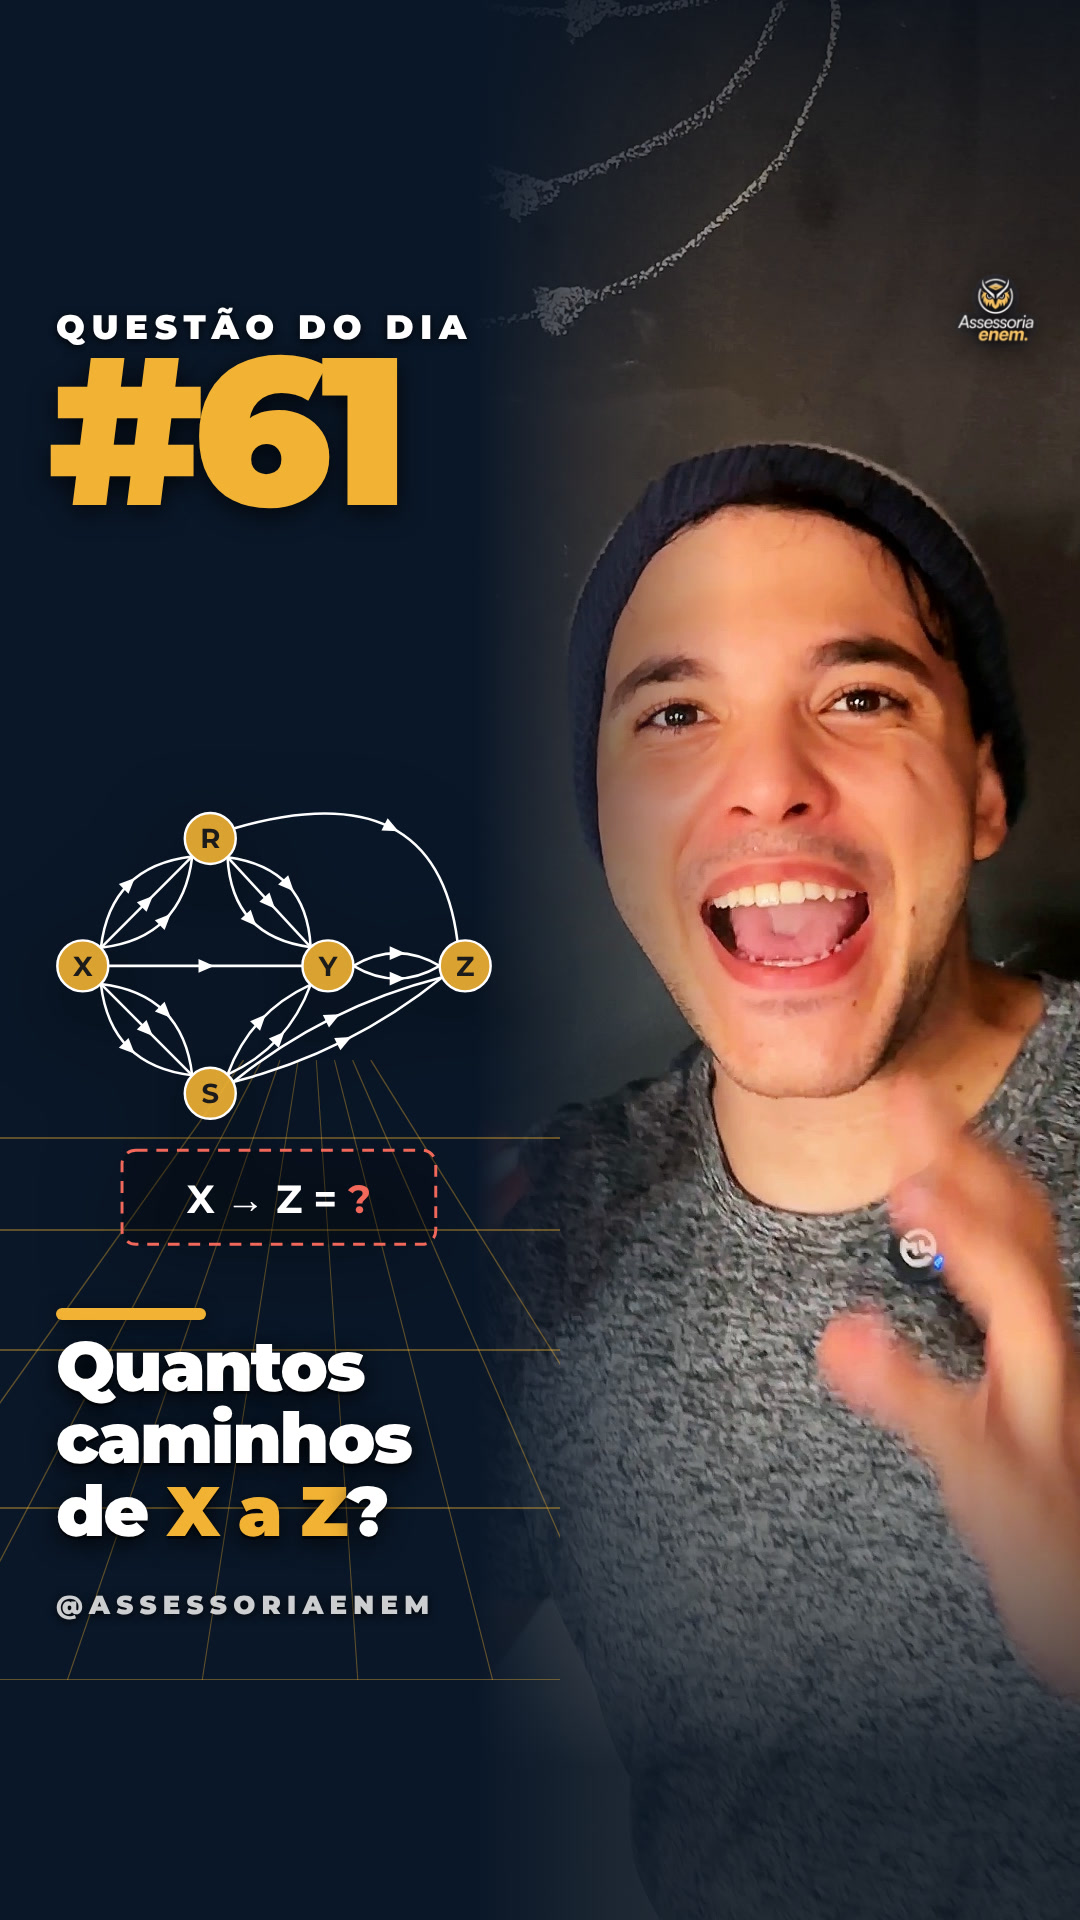
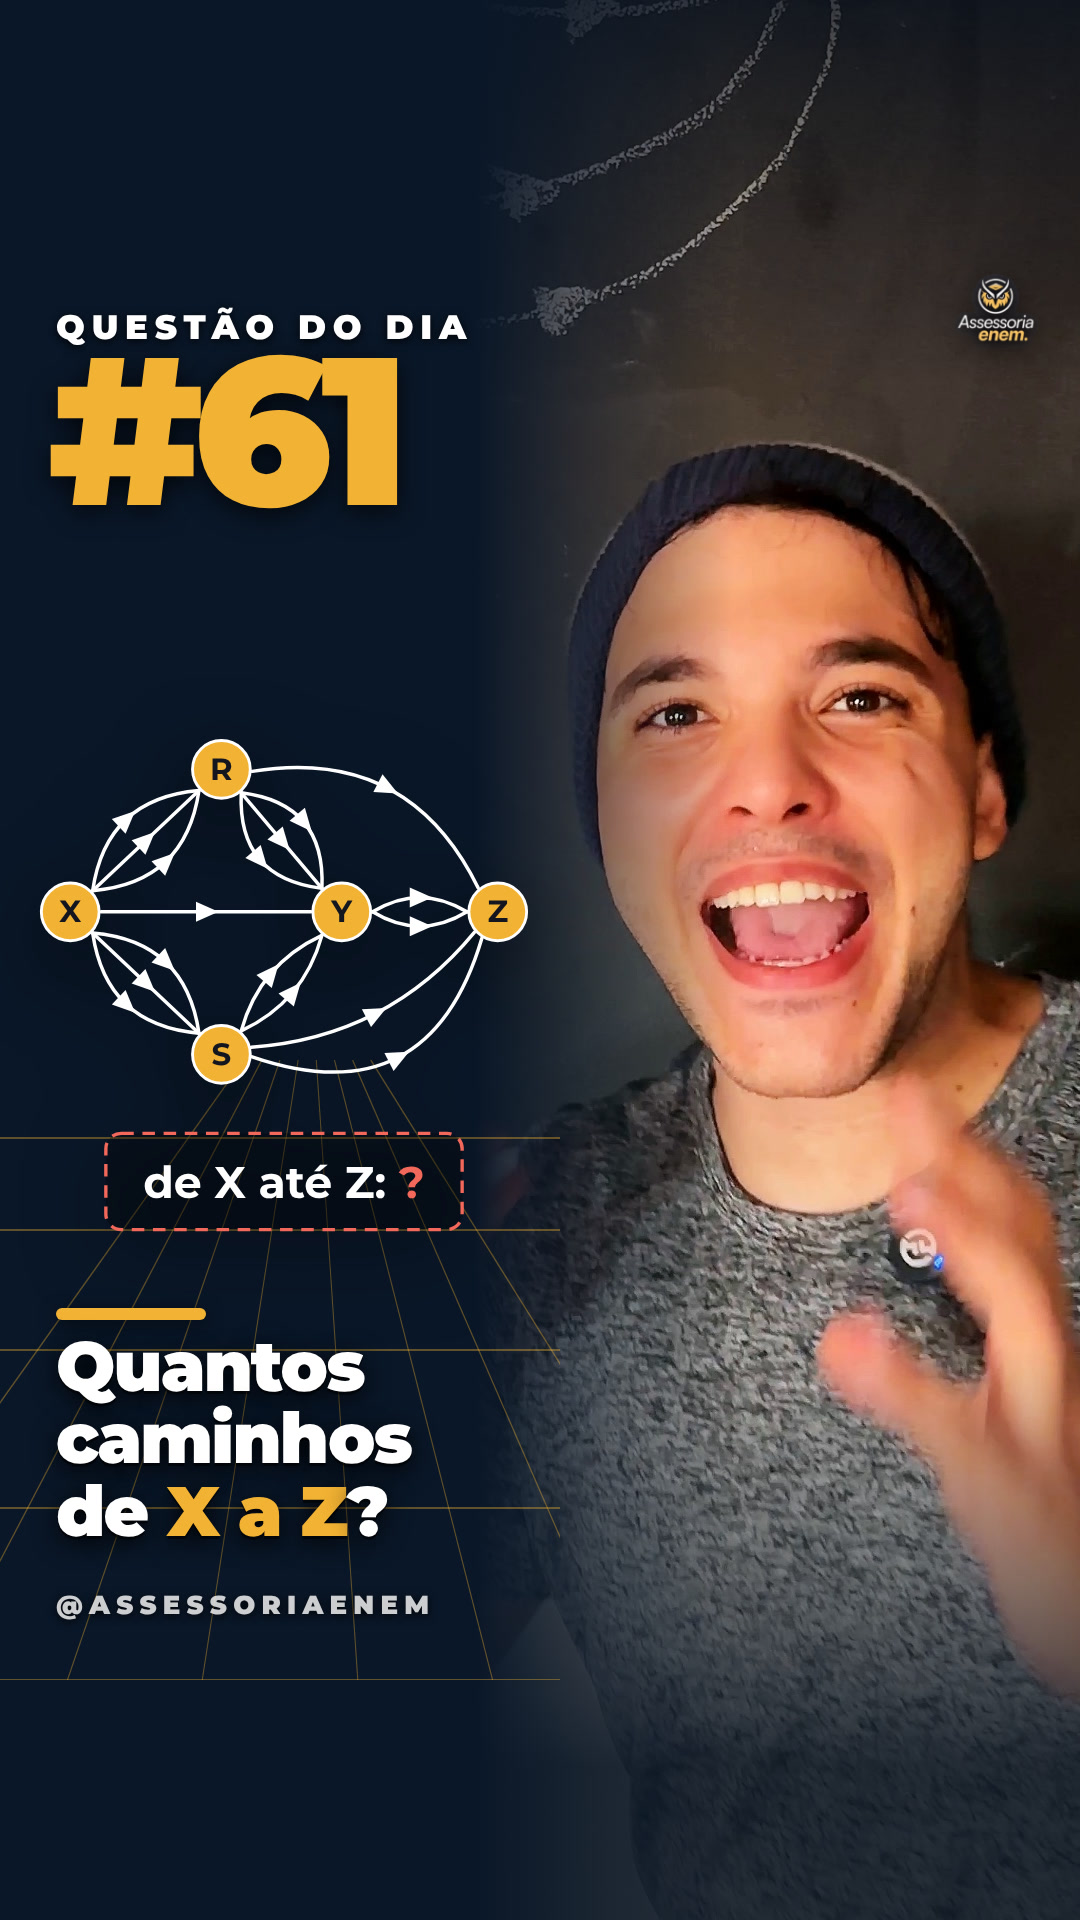
Questão do Dia #61: diagrama refeito na capa e no card
Claude-Session: https://claude.ai/code/session_01GgpLLMxp2kmphHyYTqX5f3

Changed region(s): [[0.0306, 0.375, 0.4889, 0.6562]]

diff --git a/kit-questao-do-dia/exemplo-q61/figura61b.py b/kit-questao-do-dia/exemplo-q61/figura61b.py
@@ -1,0 +1,39 @@
+# duas versões do diagrama para a capa: "limpo" (todas as setas, traço grosso) e "contagem" (1 seta + nº de ligações)
+import math
+OURO = "#F2B233"; CORAL = "#F2685A"
+N = {"X": (48, 200), "R": (205, 52), "Y": (330, 200), "S": (205, 348), "Z": (492, 200)}
+RN = 30
+AR = [("X", "R", 3), ("R", "Y", 3), ("X", "Y", 1), ("Y", "Z", 2), ("X", "S", 3), ("S", "Y", 2), ("S", "Z", 2), ("R", "Z", 1)]
+CURVA = {("R", "Z"): 70, ("S", "Z"): -70}      # arcos por fora
+def borda(p, q, d):
+    dx, dy = q[0]-p[0], q[1]-p[1]; L = math.hypot(dx, dy); return p[0]+dx/L*d, p[1]+dy/L*d
+def seta(s, c, e, w, ah):
+    m = (0.25*s[0]+0.5*c[0]+0.25*e[0], 0.25*s[1]+0.5*c[1]+0.25*e[1])
+    tx, ty = (e[0]-s[0]), (e[1]-s[1]); tl = math.hypot(tx, ty); tx, ty = tx/tl, ty/tl
+    h = [(m[0]+tx*ah, m[1]+ty*ah), (m[0]-tx*ah*.8+ty*ah*.8, m[1]-ty*ah*.8-tx*ah*.8), (m[0]-tx*ah*.8-ty*ah*.8, m[1]-ty*ah*.8+tx*ah*.8)]
+    return (f'<path d="M{s[0]:.1f},{s[1]:.1f} Q{c[0]:.1f},{c[1]:.1f} {e[0]:.1f},{e[1]:.1f}" fill="none" stroke="#fff" stroke-width="{w}" stroke-linecap="round"/>'
+            f'<polygon points="{" ".join(f"{x:.1f},{y:.1f}" for x, y in h)}" fill="#fff"/>'), m
+def ligacoes(a, b, k, sep, w, ah, badge=False):
+    p, q = N[a], N[b]; s, e = borda(p, q, RN+2), borda(q, p, RN+2)
+    dx, dy = e[0]-s[0], e[1]-s[1]; L = math.hypot(dx, dy); nx, ny = -dy/L, dx/L
+    base = CURVA.get((a, b), 0); out = ""
+    ks = [0] if badge else [(i-(k-1)/2)*sep for i in range(k)]
+    for o in ks:
+        o2 = base*-1 + o*2
+        c = ((s[0]+e[0])/2 + nx*o2, (s[1]+e[1])/2 + ny*o2)
+        if base: s2, e2 = borda(p, c, RN+2), borda(q, c, RN+2); c = ((s2[0]+e2[0])/2+nx*o2*1.4, (s2[1]+e2[1])/2+ny*o2*1.4)
+        else: s2, e2 = s, e
+        g, m = seta(s2, c, e2, w, ah); out += g
+    if badge:
+        out += (f'<circle cx="{m[0]:.1f}" cy="{m[1]:.1f}" r="21" fill="#0A1728" stroke="{CORAL}" stroke-width="3"/>'
+                f'<text x="{m[0]:.1f}" y="{m[1]+9:.1f}" font-size="26" text-anchor="middle" fill="#fff">{k}</text>')
+    return out
+def svg(versao="limpo", pergunta=True):
+    badge = versao == "contagem"
+    corpo = "".join(ligacoes(a, b, k, 30, 3.6 if not badge else 4.2, 13 if not badge else 15, badge) for a, b, k in AR)
+    nos = "".join(f'<circle cx="{x}" cy="{y}" r="{RN}" fill="{OURO}" stroke="#fff" stroke-width="3"/>'
+                  f'<text x="{x}" y="{y+11}" font-size="32" text-anchor="middle" fill="#14161f">{n}</text>' for n, (x, y) in N.items())
+    q = (f'<rect x="85" y="430" width="370" height="100" rx="16" fill="rgba(0,0,0,.3)" stroke="{CORAL}" stroke-width="3.5" '
+         f'stroke-dasharray="13 9"/><text x="270" y="497" font-size="46" text-anchor="middle">de X até Z: <tspan fill="{CORAL}">?</tspan></text>') if pergunta else ""
+    return (f'<svg viewBox="0 -20 540 {560 if pergunta else 410}" xmlns="http://www.w3.org/2000/svg"><g font-family="MontserratBold" fill="#fff">'
+            + corpo + nos + q + "</g></svg>")

diff --git a/kit-questao-do-dia/exemplo-q61/capas61.py b/kit-questao-do-dia/exemplo-q61/capas61.py
@@ -1,13 +1,13 @@
 import sys; sys.path.insert(0, sys.argv[1]); sys.path.insert(0, sys.argv[2])
-import capa_gen, capas_variantes, figura61
+import capa_gen, capas_variantes, figura61b
 OURO = capa_gen.CORES["mat"]
-SVG = figura61.svg(pergunta=True)
+SVG = figura61b.svg("limpo", pergunta=True)   # desenho refeito: maior, traço grosso
 v = "master.mov"
 capa_gen.quadro_rosto("fr/k3.75.mp4", 0, "fr/foto_q.jpg", w=1080, h=1920)
 capa_gen.quadro_rosto("fr/k2.75.mp4", 0, "fr/foto_r.jpg", w=1080, h=1920)
 # rodízio: 60 terminou em rosto grande -> dividida (questão) -> rosto grande (resolução)
 capas_variantes.dividida("fr/foto_q.jpg", "QUESTÃO DO DIA", "#61",
-    "Quantos caminhos<br>de <em>X a Z</em>?", OURO, "out/capa-61-questao.png", SVG)
+    "Quantos caminhos<br>de <em>X a Z</em>?", OURO, "out/capa-61-questao.png", SVG, obj=(520, 540, 700))
 capa_gen.reacao("fr/foto_r.jpg", "RESOLUÇÃO DO DIA", "#61",
     "Multiplique e<br><em>some</em>", OURO, "out/capa-61-resolucao.png", banda=240, h=1920)
 open("out/figura61.svg", "w").write(SVG)

diff --git a/kit-questao-do-dia/exemplo-q61/card61.py b/kit-questao-do-dia/exemplo-q61/card61.py
@@ -1,10 +1,10 @@
 import sys; sys.path.insert(0, sys.argv[1]); sys.path.insert(0, sys.argv[3])
-import card_escala, figura61
+import card_escala, figura61b
 enun = ["(UFMG) Observe o diagrama.",
         "O número de ligações distintas",
         "entre <b>X</b> e <b>Z</b> é"]
 alts = ["A) 41", "B) 45", "C) 35", "D) 39"]
 out, caixa = card_escala.card(enun, alts, "Marque sua resposta", sys.argv[2],
                               topo_bloco=930, topo_rodape=1640, espaco_alts=44,
-                              desenho=(420, 640, 464, figura61.svg(pergunta=False)))
+                              desenho=(416, 600, 456, figura61b.svg("limpo", pergunta=False)))
 print(caixa)

diff --git a/kit-questao-do-dia/NOTAS-modo-questao-do-dia.md b/kit-questao-do-dia/NOTAS-modo-questao-do-dia.md
@@ -100,3 +100,10 @@ colorchannelmixer=<balanço medido na parede>, curves=all='0/0 0.15/0.12
 - Capas: tire o quadro do 4K original com a mesma correção (sem o scale) e
   passe ao `quadro_rosto` (ex.: um mp4 de 1 quadro) — o rosto sai nítido.
 - Mostre um antes/depois na prévia e no zip (`qualidade-antes-depois.jpg`).
+
+## Desenho legível (peça 61)
+O Antomir achou o diagrama da capa ruim (pequeno, setas finas, nós colados).
+Regra: o desenho tem que ler na grade do perfil. Traço 3,5+ px, pontas de seta
+grandes, nós/rótulos grandes, nada encostado; use `obj=(520, 540, 700)` na
+dividida. Quando o desenho mudar, mude em TODO lugar onde ele aparece: capa e
+card do recorte de 15 s. Ver `exemplo-q61/figura61b.py`.
